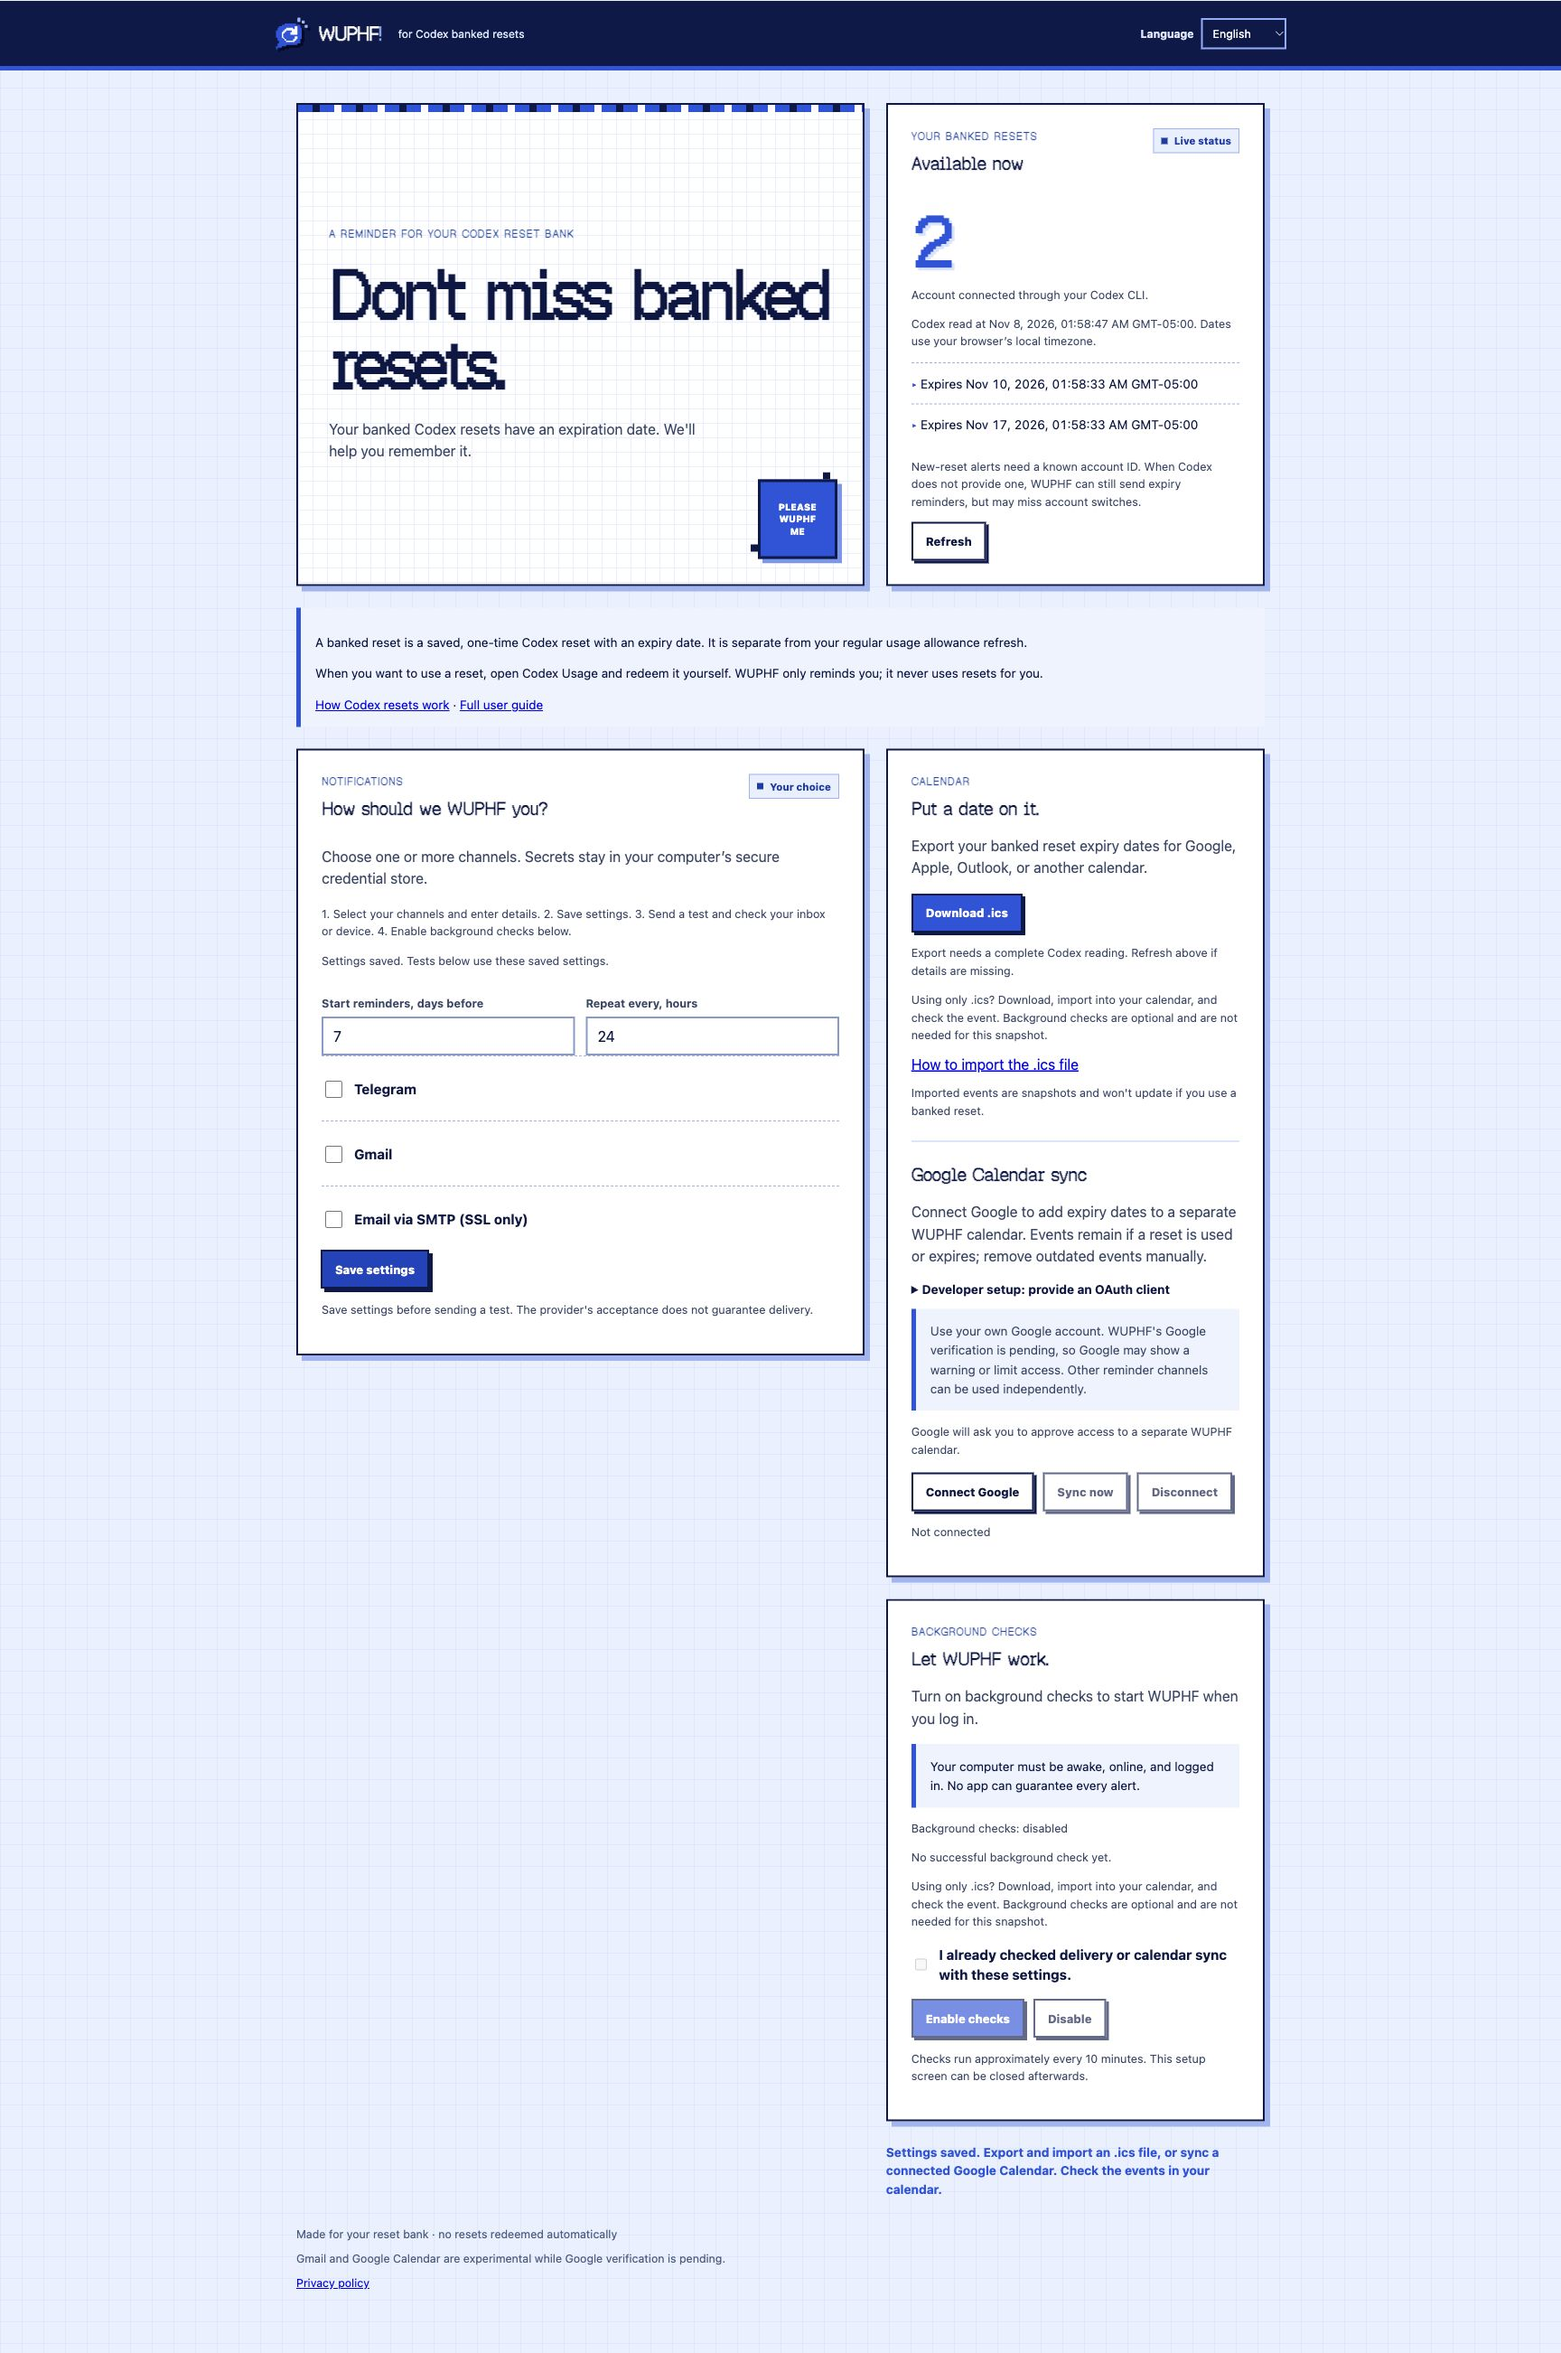
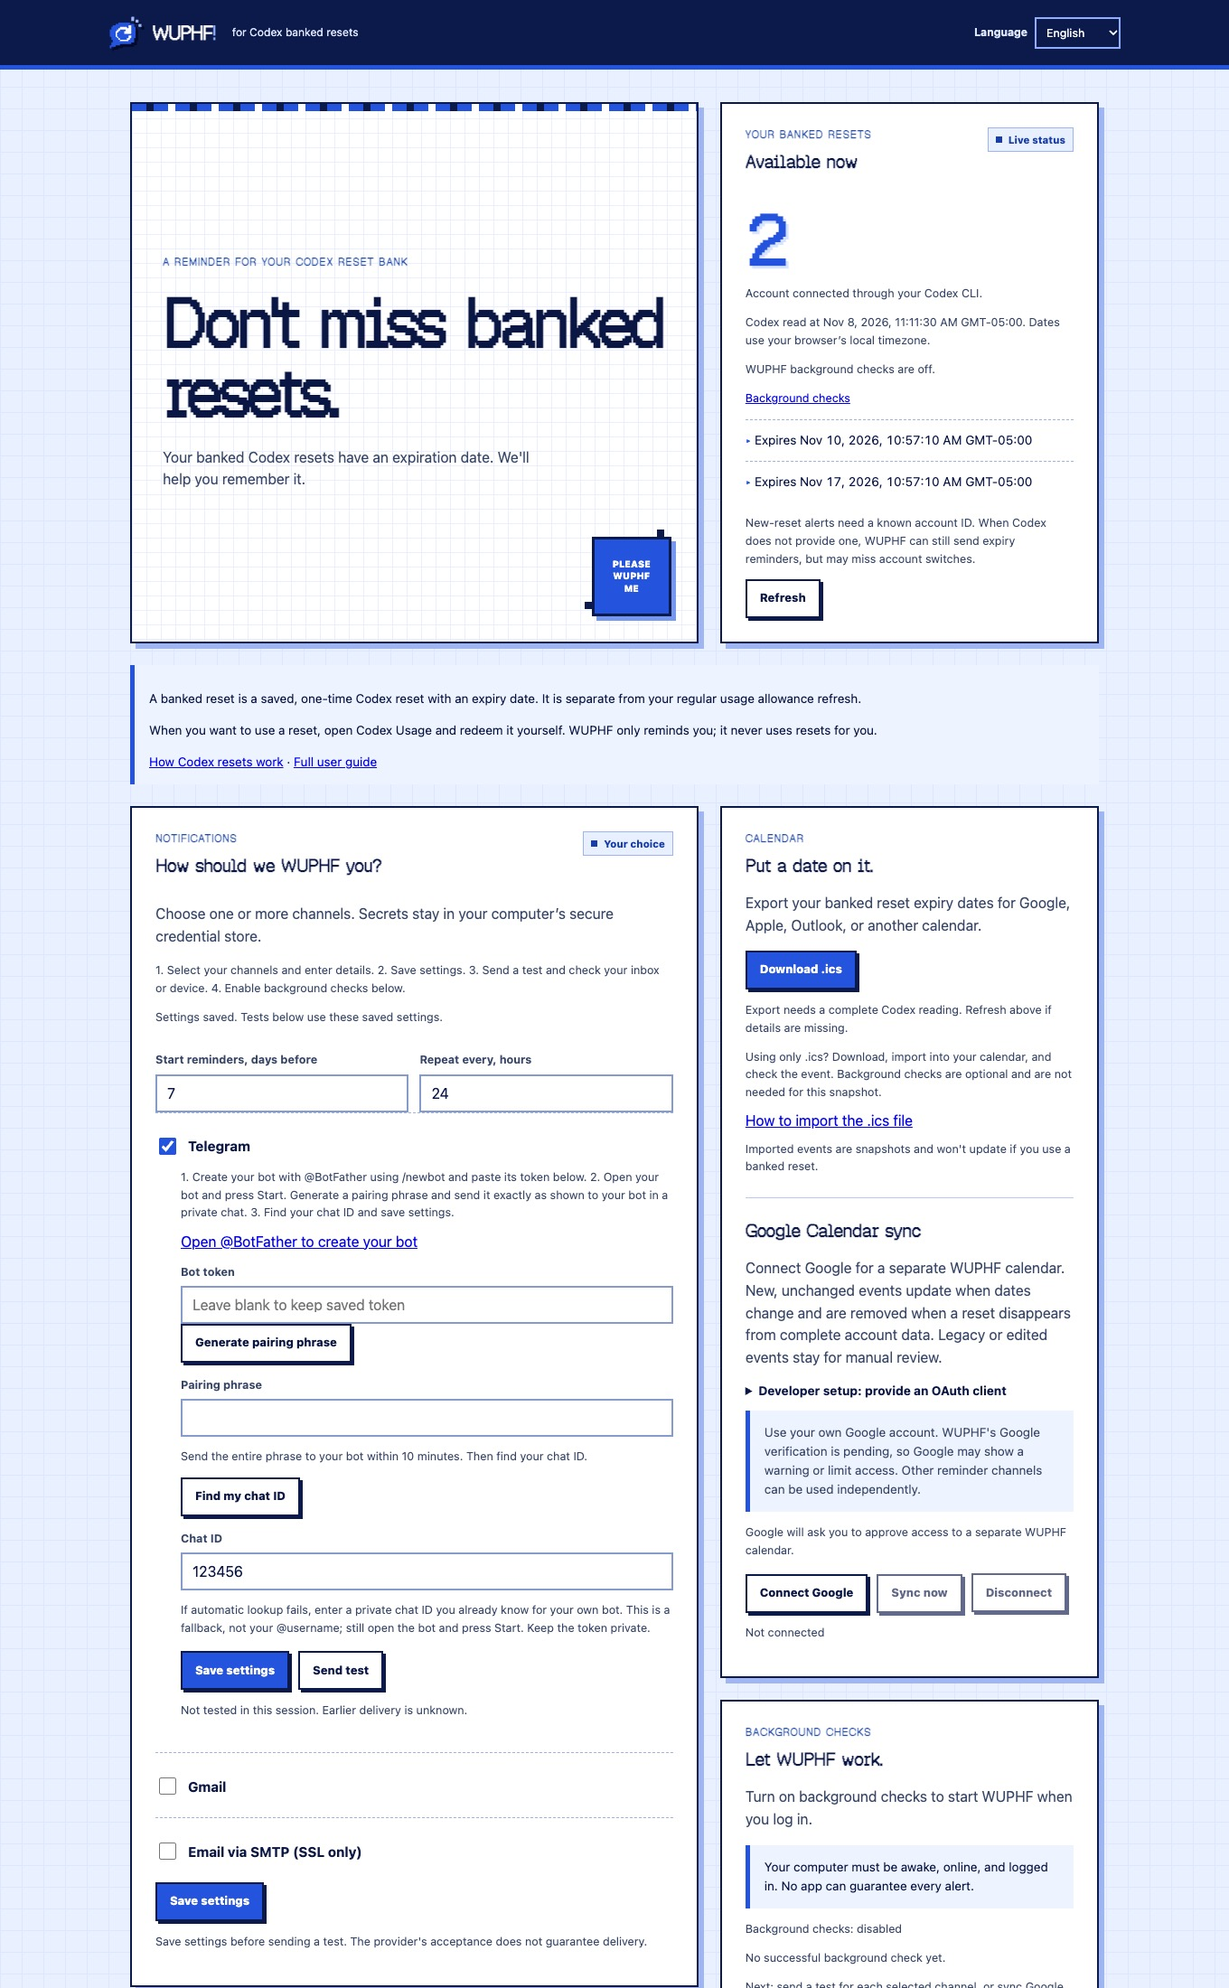
docs: freeze reviewed beta3 setup and release evidence

Changed region(s): [[0.0, 0.0, 1.0, 1.0]]

diff --git a/docs/superpowers/plans/2026-11-08-product-quality.md b/docs/superpowers/plans/2026-11-08-product-quality.md
@@ -107,15 +107,15 @@ Files: wuphf/google.py, wuphf/google_auth.py, tests/test_google.py, plus UI/loca
 Design authority: docs/superpowers/specs/2026-11-08-calendar-lifecycle.md, selected alternative A including the orchestrator decision. Read it before coding. Use CalendarSyncError with codes calendar_data_required/calendar_event_conflict; preserve existing CalendarAccountError codes. Validate Calendar-specific semantics before token/calendar creation and before reconciliation. Reserve random IDs/owner tokens and persist before POST. Updates/deletes require matching remote private markers, binding and saved etag, with If-Match; no remote listing, ownership adoption or automatic restoration. Legacy events are preserved without modification; report their manual-review limit. An ambiguous remote-success/local-save-loss is a visible conflict, not an automatic etag refresh.
 Scope: wuphf/google.py, wuphf/google_auth.py, wuphf/cli.py, wuphf/web.py, wuphf/web.html (serverErrors mapping only), wuphf/translations.json (new errors/calendar lifecycle descriptions only), tests/test_google.py/test_cli.py/test_web.py/test_i18n.py, README.md and docs/user-guide.md/google-production.md for lifecycle text. Update connected existing tests when interfaces change. No general frontend redesign; Task9 follows separately.
 - [x] Finalize ownership, legacy preservation, conditional-write and restart rules against complete same-account snapshots; no unrelated or ambiguously owned deletion/update.
-- [ ] Reproduce stale expiry events and ownership/failure cases with focused failing tests, implement the smallest safe reconciliation and review independently.
-- [ ] Verify incomplete/invalid data, changed account, edited/legacy events, races and failures preserve user data; document migration limits honestly.
+- [x] Reproduce stale expiry events and ownership/failure cases with focused failing tests, implement the smallest safe reconciliation and review independently.
+- [x] Verify incomplete/invalid data, changed account, edited/legacy events, races and failures preserve user data; document migration limits honestly.
 
 ### Task 9: Reduce observed setup navigation friction
 Files: wuphf/web.html, wuphf/translations.json, tests/test_setup_ui.js and connected existing UI/i18n tests; README.md/docs/user-guide.md setup wording only if changed controls need it.
-Concrete design: keep the approved pixel layout and global Save. Add an initially disabled native submit Save settings button immediately beside each Telegram/Gmail/SMTP Send test (IDs telegram-save/gmail-save/email-save), all submitting the existing settings form and sharing its validation/dirty/revision/busy rules. Reuse the save translation; no new wizard, fixed overlay, auto-save or implicit test send. Render a concise localized reminder-health summary near the reset balance, with an anchor to the existing Background checks section: off, unknown, enabled awaiting first success/stale/failing, and enabled with recent successful check. Use only actual lastBackground state; do not predict delivery or future reminders. Add calendar-only next-step strings for sync/check events/enable, avoiding inbox/device-receipt language when no message channel is selected. All new keys in eight catalogs. Keep disclosure that old/edited/ambiguous Calendar events need manual review.
-- [ ] Preserve the approved pixel design while making Save reachable during selected-channel tests; do not bypass validation or test stale settings.
-- [ ] Use calendar-specific completion wording for calendar-only setup and make existing check health discoverable near the balance, without inventing a predicted reminder or delivery guarantee.
-- [ ] Verify dirty/revision/error guards, keyboard/mobile layout and all eight catalogs; independent code/browser review.
+Concrete design: keep the approved pixel layout and global Save. Add an initially disabled native submit Save settings button immediately beside each Telegram/Gmail/SMTP Send test (IDs telegram-save/gmail-save/email-save), all submitting the existing settings form and sharing its validation/dirty/revision/busy rules. Reuse the save translation; no new wizard, fixed overlay, auto-save or implicit test send. Render a concise localized reminder-health summary near the reset balance, with an anchor to the existing Background checks section: off, unknown, enabled awaiting first success/stale/failing, and enabled with recent successful check. Use only actual lastBackground state; do not predict delivery or future reminders. Nonempty lastBackground.failures must produce an attention summary even when the Codex check is recent; distinguish channel attention from a failed check and never show an all-clear delivery implication. Add calendar-only next-step strings for sync/check events/enable, avoiding inbox/device-receipt language when no message channel is selected. All new keys in eight catalogs. Keep disclosure that old/edited/ambiguous Calendar events need manual review.
+- [x] Preserve the approved pixel design while making Save reachable during selected-channel tests; do not bypass validation or test stale settings.
+- [x] Use calendar-specific completion wording for calendar-only setup and make existing check health discoverable near the balance, without inventing a predicted reminder or delivery guarantee.
+- [x] Verify dirty/revision/error guards, keyboard/mobile layout and all eight catalogs; independent code/browser review.
 
 ### Task 10: Integrate, re-review and publish corrected binaries
 - [ ] Run relevant/full tests, native CI, package/artifact and frozen transport checks from the integrated immutable candidate.

diff --git a/docs/release-readiness.md b/docs/release-readiness.md
@@ -1,10 +1,12 @@
-# Beta.3 release candidate
+# Beta.3 release evidence
 
 Beta.3 includes the frozen macOS trust repair, conservative lifecycle management for newly owned Calendar events and setup-navigation improvements. Google verification and a new external tester do not block this owner-authorized beta. Prior releases remain immutable.
 
 The macOS TLS fix passed independent code review and actual CI-built Python 3.11.9 frozen handshake checks to Telegram and both Google token paths with no trust environment override. Those synthetic requests prove transport on the tested Mac/network, not account authorization or delivery. Legacy/user-edited events and ambiguous remote-success/local-save-loss conflicts require manual Calendar review.
 
-Final integrated tests, independent review, exact-commit build, artifact audit and public download verification are pending below; publication must record their actual results before claiming completion.
+Task7 trust initialization and Task8 Calendar lifecycle passed independent code/safety review. Task9 passed scoped code/browser review after a native Chrome regression found and verified the fix for hidden invalid fields blocking another channel. The expanded private-profile native DOM harness passed Gmail/SMTP deselection/reselection validation, Save→test→enable/disable, and Calendar-only sync→enable using mock APIs. English desktop and German390px renders were inspected; CUA full keyboard traversal remained unavailable because input commands timed out. No real delivery/auth/job execution is inferred.
+
+The integrated source test run at166209a passed (workflow42497534682) and all three package jobs passed (42497534694); the later native-validation fixf71b01a passed focusedNode and Python checks. Independent whole-branch review approved runtime f71b01a for final CI/builds with no remaining release-blocking code findings. Final source-freeze CI is required before merge. The [beta.3 release notes](https://github.com/Robertzu43/WUPHF-my-banked-resets/releases/tag/v0.1.0-beta.3) record the exact merged build commit, workflow, artifact audit and publication checks when released. Each download includes build-info.json and is covered by SHA256SUMS; use those to identify the actual binary rather than a moving branch. The owner authorized beta publication after those gates without waiting for Google approval or a new tester.
 
 ---
 
